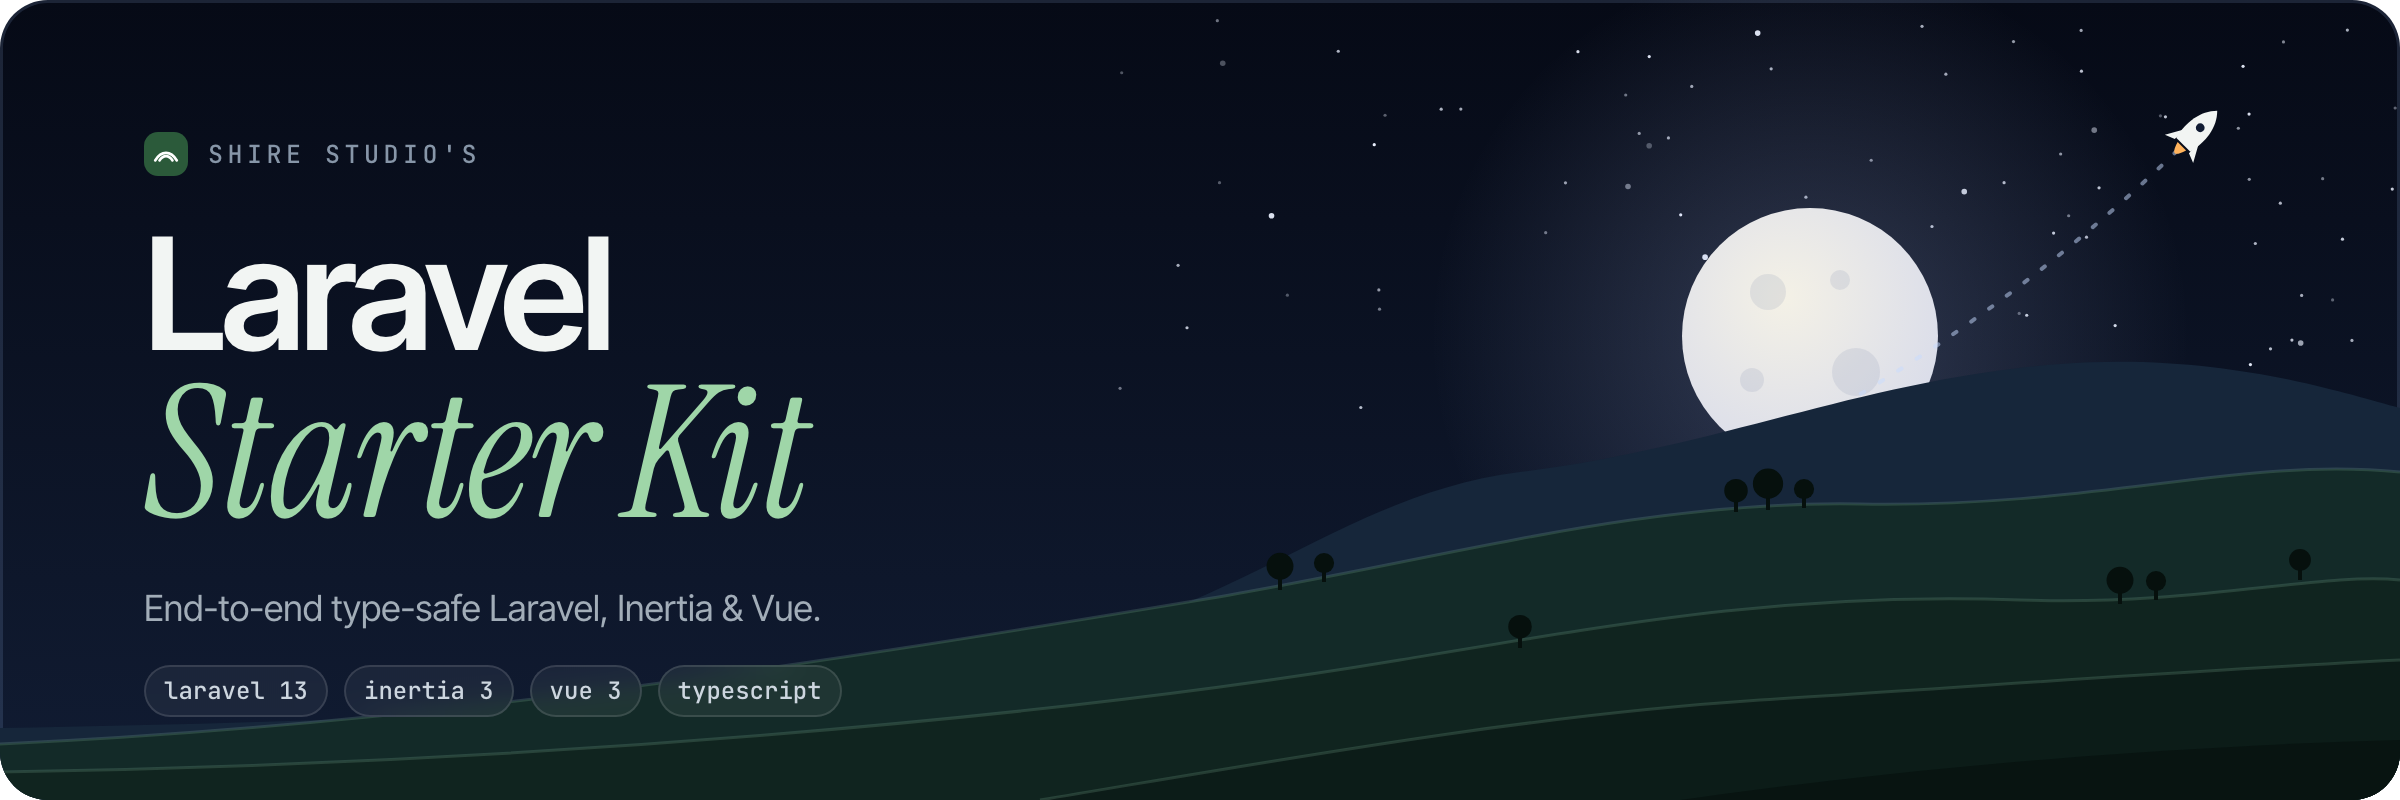
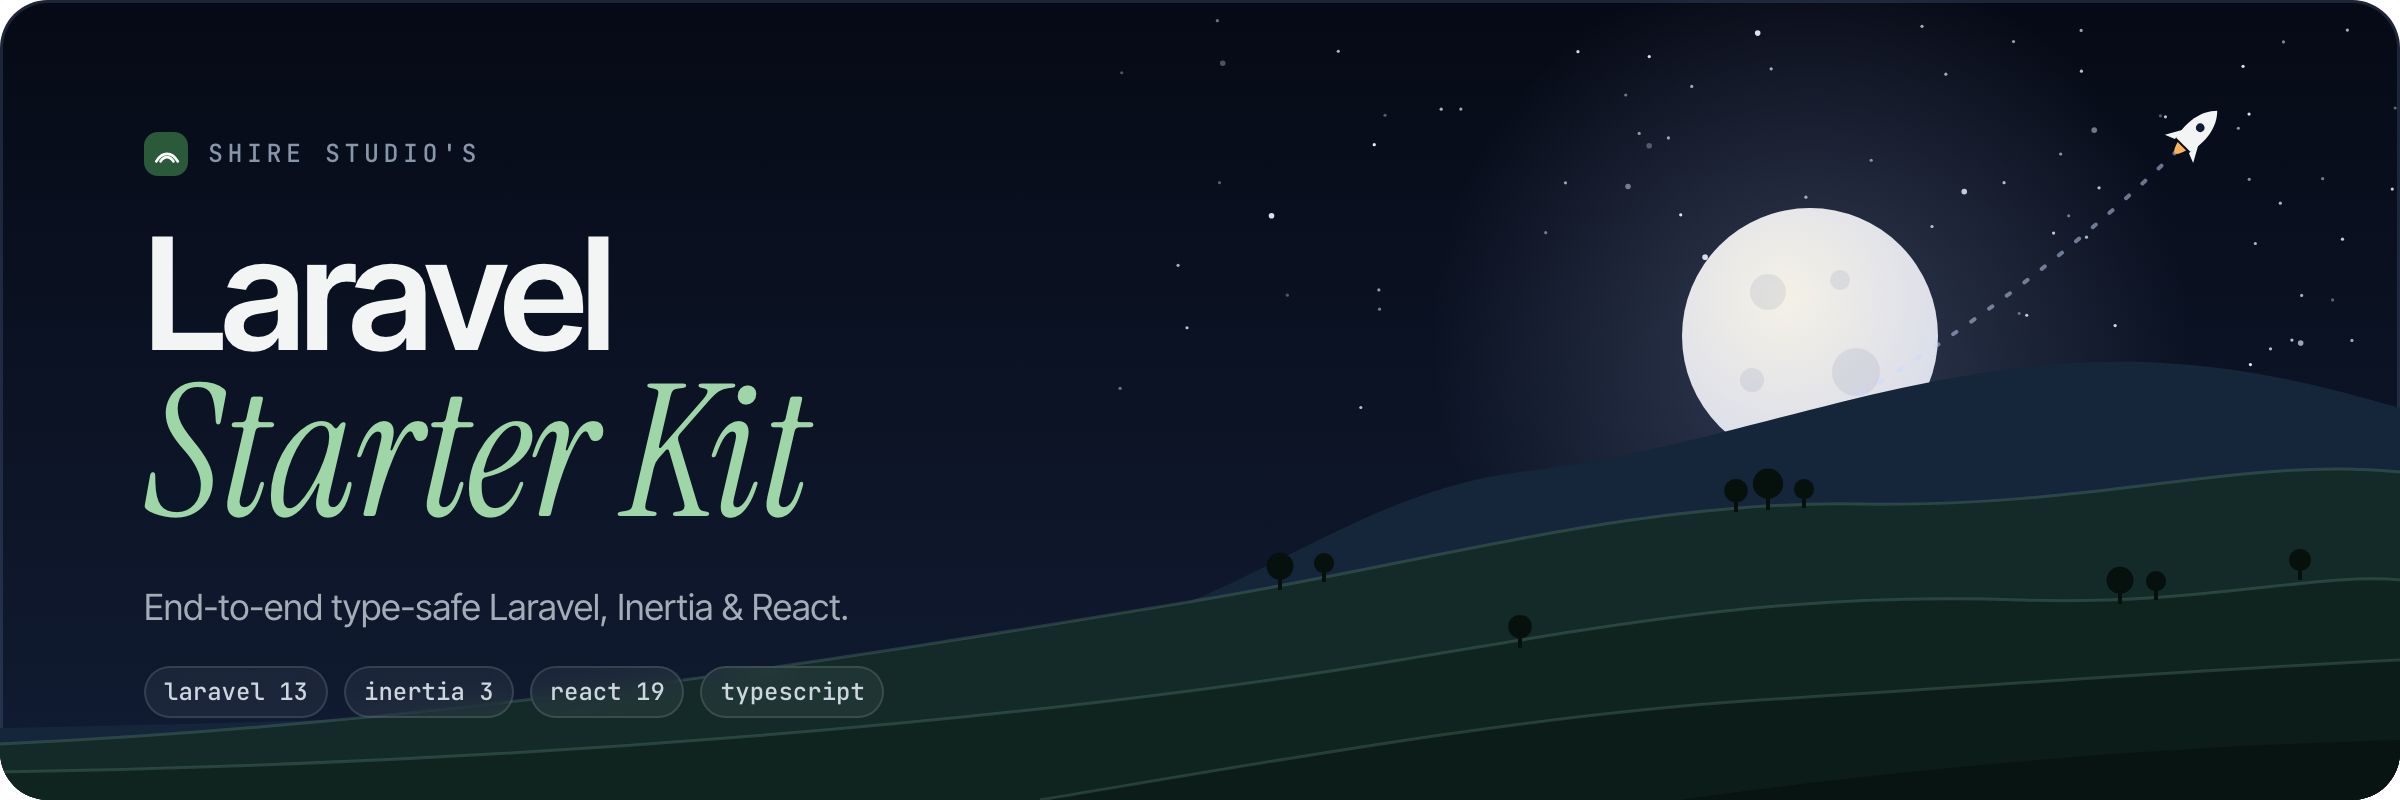
Merge pull request #1 from shire-studio/docs/per-kit-readmes-and-art
docs: give every kit the CLI README and its own artwork

Posted from Hobbiton: https://github.com/shire-studio/hobbiton/commit/cdd084a08187e6eee601ddf4f640897f741b3669

diff --git a/art/header.html b/art/header.html
@@ -125,8 +125,8 @@
       Shire Studio's
     </div>
     <h1>Laravel<em>Starter Kit</em></h1>
-    <p class="tagline">End-to-end type-safe Laravel, Inertia &amp; Vue.</p>
-    <div class="stack"><span>laravel 13</span><span>inertia 3</span><span>vue 3</span><span>typescript</span></div>
+    <p class="tagline">End-to-end type-safe Laravel, Inertia &amp; React.</p>
+    <div class="stack"><span>laravel 13</span><span>inertia 3</span><span>react 19</span><span>typescript</span></div>
   </div>
 </div>
 <script>

diff --git a/README.md b/README.md
@@ -1,6 +1,6 @@
 <picture>
     <source media="(prefers-color-scheme: dark)" srcset="art/header-dark.png">
-    <img alt="Logo for Laravel Starter Kit" src="art/header-light.png">
+    <img alt="Logo for the React 19 Laravel Starter Kit" src="art/header-light.png">
 </picture>
 
 <br/>
@@ -45,10 +45,35 @@ The Vue, React and Svelte kits share the same PHP application line for line. Onl
 >
 > SQLite is used by default for the database, sessions, cache and queue.
 
+The recommended way to start a project is the [starter kit CLI](https://github.com/shire-studio/laravel-starter-kit-cli). It works like the `laravel` installer, and it can also bring newer starter kit releases into your project later (see [Keeping Your Project Up to Date](#keeping-your-project-up-to-date)).
+
+Install it globally with Composer:
+
+```bash
+composer global require shire-studio/laravel-starter-kit-cli
+```
+
+This installs the `shire-kit` command. Make sure Composer's global bin directory is on your `PATH` (run `composer global config bin-dir --absolute` to find it). Then create a project:
+
+```bash
+shire-kit new example-app --kit=react
+cd example-app
+```
+
+This creates `example-app` from the latest stable release of this starter kit. You'll be asked whether to install and build the frontend with pnpm, and whether to initialise a git repository. Pass `--pnpm` or `--no-pnpm` and `--git` or `--no-git` to skip the questions, or `--force` to overwrite an existing directory.
+
+If you'd rather not install the CLI, `composer create-project` works too:
+
 ```bash
 composer create-project shire-studio/laravel-starter-kit-react --prefer-dist example-app
 cd example-app
+```
 
+Either way, the project gets a `.starter-kit.json` file recording the kit and release it was created from. Commit it, because the CLI reads it to work out which starter kit changes your project hasn't received yet.
+
+Then set it up:
+
+```bash
 # Install dependencies, create .env, generate a key, migrate and build assets
 composer setup
 
@@ -57,6 +82,28 @@ composer dev
 ```
 
 Pest browser tests need Playwright: `pnpm exec playwright install`.
+
+## Keeping Your Project Up to Date
+
+Once you've built on the starter kit, you can't just pull in new releases, because your project has drifted from it. The CLI's `update` command handles this. Run it from the root of your project:
+
+```bash
+shire-kit update
+```
+
+The project must be in a git repository with no uncommitted changes, so everything the update does can be reviewed with `git diff` and undone with `git restore`. It can live inside a larger repository, such as a monorepo.
+
+The CLI compares the release in your `.starter-kit.json` with the latest one and writes the changes to `.starter-kit-update/` (excluded from git). It then hands them to a coding agent of your choice, which merges them into your code, keeps your own changes and fixes anything the update breaks. Claude Code, Codex, Gemini CLI, OpenCode and Cursor are supported, and only the ones you have installed are offered. Pass `--agent=<agent>` to skip the question.
+
+When the agent is done, the CLI shows the changed files and asks whether to mark the project as updated, which bumps the version in `.starter-kit.json`. Nothing is committed for you. Review the changes, run `composer test`, then commit.
+
+A few things worth knowing:
+
+- **Removed features stay removed.** If you deleted part of the starter kit, such as authentication, the update won't bring it back. The CLI can record these in `.starter-kit.json` so future updates remember them.
+- **You can skip the agent.** `--agent=none` only prepares `.starter-kit-update/`. Follow `.starter-kit-update/PROMPT.md` yourself or give it to any agent you like.
+- **Older projects** without a `.starter-kit.json` can still be updated. Pass `--kit=react` (or pick the kit when asked), and the agent works out which release the project started from and asks you to confirm it.
+
+Update regularly. Small, frequent updates are much easier to review than one large jump across several releases. See the [CLI README](https://github.com/shire-studio/laravel-starter-kit-cli#update-an-existing-project) for every option.
 
 ## Available Commands
 
